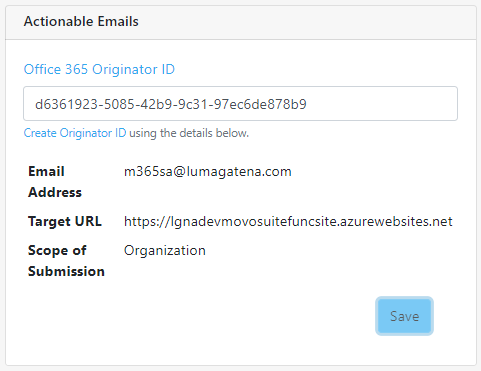
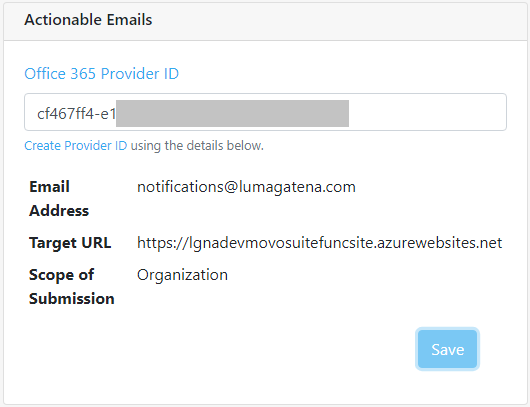
Updated images

diff --git a/docs/README.md b/docs/README.md
@@ -32,7 +32,7 @@ The following is a high-level implementation checklist for MovoSuite, with links
 - **Step 4: Authorize MovoSuite to process requests, send notifications, automate app group assignments, and update app and device lists from Intune**. [HERE](#onboarding) As a Directory Admin (Global Admin), click 'Authorize Automation' under the Step 2 heading. This authorizes MovoSuite to work with Intune via Microsoft Graph in the background. You may be prompted to grant MovoSuite to access your directory as you to perform this step.
 - **Step 5: Configure sender email address**. [HERE](#notifications) Enter your sender email address in the Sender Address field.The address from which emails are sent.
 - **Step 6: Configure notification email addresses**. [HERE](#notifications) Enter your notification email addresses in the Notifications area
-- **Step 7: Configure Actionable (live) emails**. [HERE](#generate-the-office-365-originator-id) Navigate to the Email tab in configuration, and click 'Create Originator ID' under the Actionable Emails section. Create a new Provider ID named 'MovoSuite' using the details specified in the Actionable Emails area.
+- **Step 7: Configure Actionable (live) emails**. [HERE](#generate-the-office-365-originator-id) Navigate to the Email tab in configuration, and click 'Create Provider ID' under the Actionable Emails section. Create a new Provider ID named 'MovoSuite' using the details specified in the Actionable Emails area.
 - **Step 8: Test MovoSuite Functionality**. [HERE](#) Try deploying an app to one of your devices, and test the purchase form.
 
 [back to ToC](#table-of-contents)
@@ -42,9 +42,9 @@ The following is a high-level implementation checklist for MovoSuite, with links
 Before configuring MovoSuite, you should have the following items in place.
 
 - **#1 - Contributor rights to an Azure subscription or Resource Group**. Have at least Contributor rights to an Azure subscription or Resource Group within the subscription.
-- **#2 - Have access to a Global Administrator account**. The Global Administrator account is used for authorizing MovoSuite to perform deployment and notification actions, as well as approving Office 365 Provider ID (also known as Originator ID). If you do not have access to a Global Administrator account, you will need access to accounts with at least:
+- **#2 - Have access to a Global Administrator account**. The Global Administrator account is used for authorizing MovoSuite to perform deployment and notification actions, as well as approving Office 365 Provider ID (also known as Provider ID). If you do not have access to a Global Administrator account, you will need access to accounts with at least:
   - The ability to consent to an application for delegated and application permissions. [See here](https://docs.microsoft.com/en-us/azure/active-directory/roles/custom-consent-permissions) for more information on creating a custom role to do this.
-  - Exchange Administrator role for approving the Provider / Originator ID.
+  - Exchange Administrator role for approving the Provider / Provider ID.
 - **#3 - Intune with DEP and VPP integrated**. MovoSuite builds on and enhances native Intune functionality, so you will need Intune deployed integrated with your Apple Device Enrollment Program (DEP) and Volume Purchase Plan (VPP). MovoSuite supports unlimited VPP tokens up to the Intune maximum.
 - **#4 - Create an Exchange Online mailbox for sending email notifications**. This should be a User Mailbox (requires an account with an Exchange Online license) or a Shared Mailbox (no license required), but cannot be an Office 365 Group mailbox due to limitations in Microsoft Graph today.
 - **#5 - Identify an email address for receiving notifications/requests**. Ideally, this should be an **Office 365 Group**, with members subscribed to emails in order for Actionable (live) emails to work. Shared/resource mailboxes will not render the Actionable emails, and fall back to basic HTML). Alternatively, specify an individual user email address.
@@ -161,7 +161,7 @@ This option is **deprecated**, and will be removed in the future as it has been 
 
 ##### Enable RBAC
 
-When you check the Enable RBAC box under **Configuration \> General**, MovoSuite filters the apps and devices shown to users in the self-service areas based on their permissions in Intune.
+When you check the Enable RBAC box under **Configuration \> General**, MovoSuite filters the apps and devices shown to users in the self-service areas based on their permissions in Intune. You should enable Self-Service Tags and Groups if enabling this option, so that MovoSuite can create Scope Tags for each location, and groups for granting assignment.
 
 ##### Enable Self-Service Tags and Groups
 
@@ -228,16 +228,22 @@ The App Store country code selection is used to specify the locale for fetching 
 *To configure notifications, perform the following steps:*
 1. Configure Sender Email Address
 2. Configure Approval Recipient Email addresses
-3. Configure Office 365 Originator ID
+3. Configure Office 365 Provider ID
 4. **Optional**: Configure Webhook Notifications For Microsoft Teams
 
 #### Notifications Sender Email<!-- omit in toc -->
 
 Configure the Sender Email address field with the email address of a User Mailbox or Shared Mailbox existing in Exchange Online. Office 365 Group Mailboxes cannot be used for the sender address.
 
+![001](images/cfg_email_send.png) 
+
+**FIGURE X**. Sender Email Address
+
 #### Notifications Recipient Emails<!-- omit in toc -->
 
 There are three email addresses for backend administrative items. You may use an email-enabled group address for any of these notifications, shown in the figure below.
+
+![001](images/cfg_email_notif.png) 
 
 **FIGURE X**. E-mail Notification and Message Format
 
@@ -276,15 +282,15 @@ Configuring your email templates is a simple 2-step process:
 
 > **Note**: MovoSuite sends a command for each device after approval and initial batch of non-approved apps, rather than waiting for the devices to report back before sending the email. The message is sent only after the last app in the list has been provided.  
 
-#### Generate the Office 365 Originator ID<!-- omit in toc -->
+#### Generate the Office 365 Provider ID<!-- omit in toc -->
 
 While still in the Email configuration area, we will generate the Office 365 Provider (Originator) ID. This establishes a trust foundation for Outlook to fetch the latest information for the email from MovoSuite for notifications related to app approval and app procurement workflows. 
 
-1. You will click the **Create Originator ID** button. This will take you to the [**Actionable Email Developer Dashboard**](https://outlook.office.com/connectors/oam/publish) where you can generate this ID. You will need the three items listed under the textbox in Figure 17. 
+1. You will click the **Create Provider ID** button. This will take you to the [**Actionable Email Developer Dashboard**](https://outlook.office.com/connectors/oam/publish) where you can generate this ID. You will need the three items listed under the textbox in Figure 17. 
 
     ![001](images/cfg_email_origid.png)
 
-    Figure X. The Office 365 Originator ID
+    Figure X. The Office 365 Provider ID
 
 2. You will now provide answers to the following items:
 
